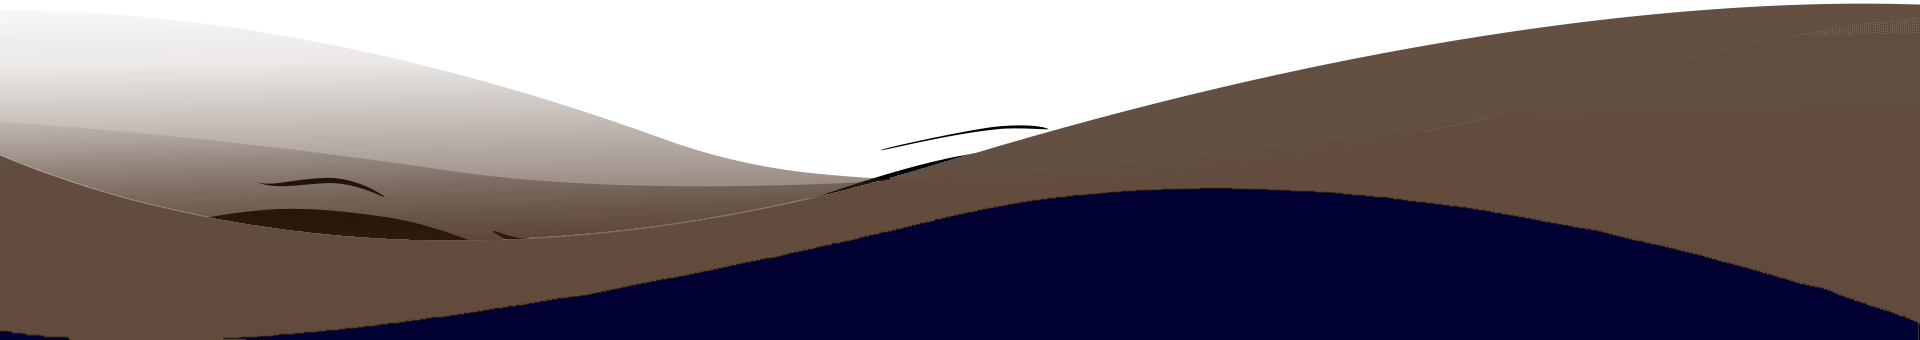
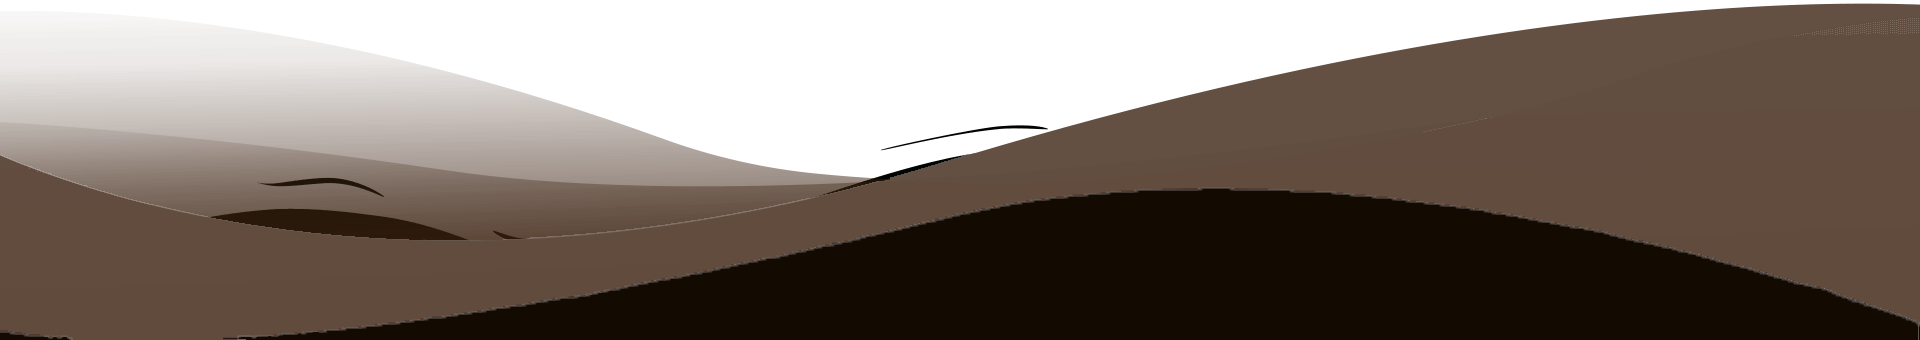
Test

Changed region(s): [[0.125, 0.5294, 1.0, 1.0], [0.0, 0.9706, 0.0312, 1.0]]

diff --git a/assets/css/main.css b/assets/css/main.css
@@ -75,7 +75,7 @@ body {
   margin: 0;
   font-weight: 400;
   position: relative;
-  background-color: #000033;
+  background-color: #130a01;
   overflow-x: hidden; }
 
 img {
@@ -1553,9 +1553,11 @@ textarea:focus,
     left: 0;
     width: 100%;
     height: 100%;
-    background-image: -moz-linear-gradient(89deg, #5f16a9 0%, #cf15f8 100%);
-    background-image: -webkit-linear-gradient(89deg, #5f16a9 0%, #cf15f8 100%);
-    background-image: -ms-linear-gradient(89deg, #5f16a9 0%, #cf15f8 100%);
+    opacity: 0.4;
+    background-color: #e4e4e4;
+    /* background-image: -moz-linear-gradient(89deg, #f5b579 0%, #ec9045 100%);
+    background-image: -webkit-linear-gradient(89deg, #f5b579 0%, #ec9045 100%);
+    background-image: -ms-linear-gradient(89deg, #f5b579 0%, #ec9045 100%); */
     box-shadow: 0px 12px 29px 0px rgba(26, 15, 63, 0.71);
     z-index: -1;
     clip-path: polygon(6% 0, 100% 0%, 94% 100%, 0% 100%); }
